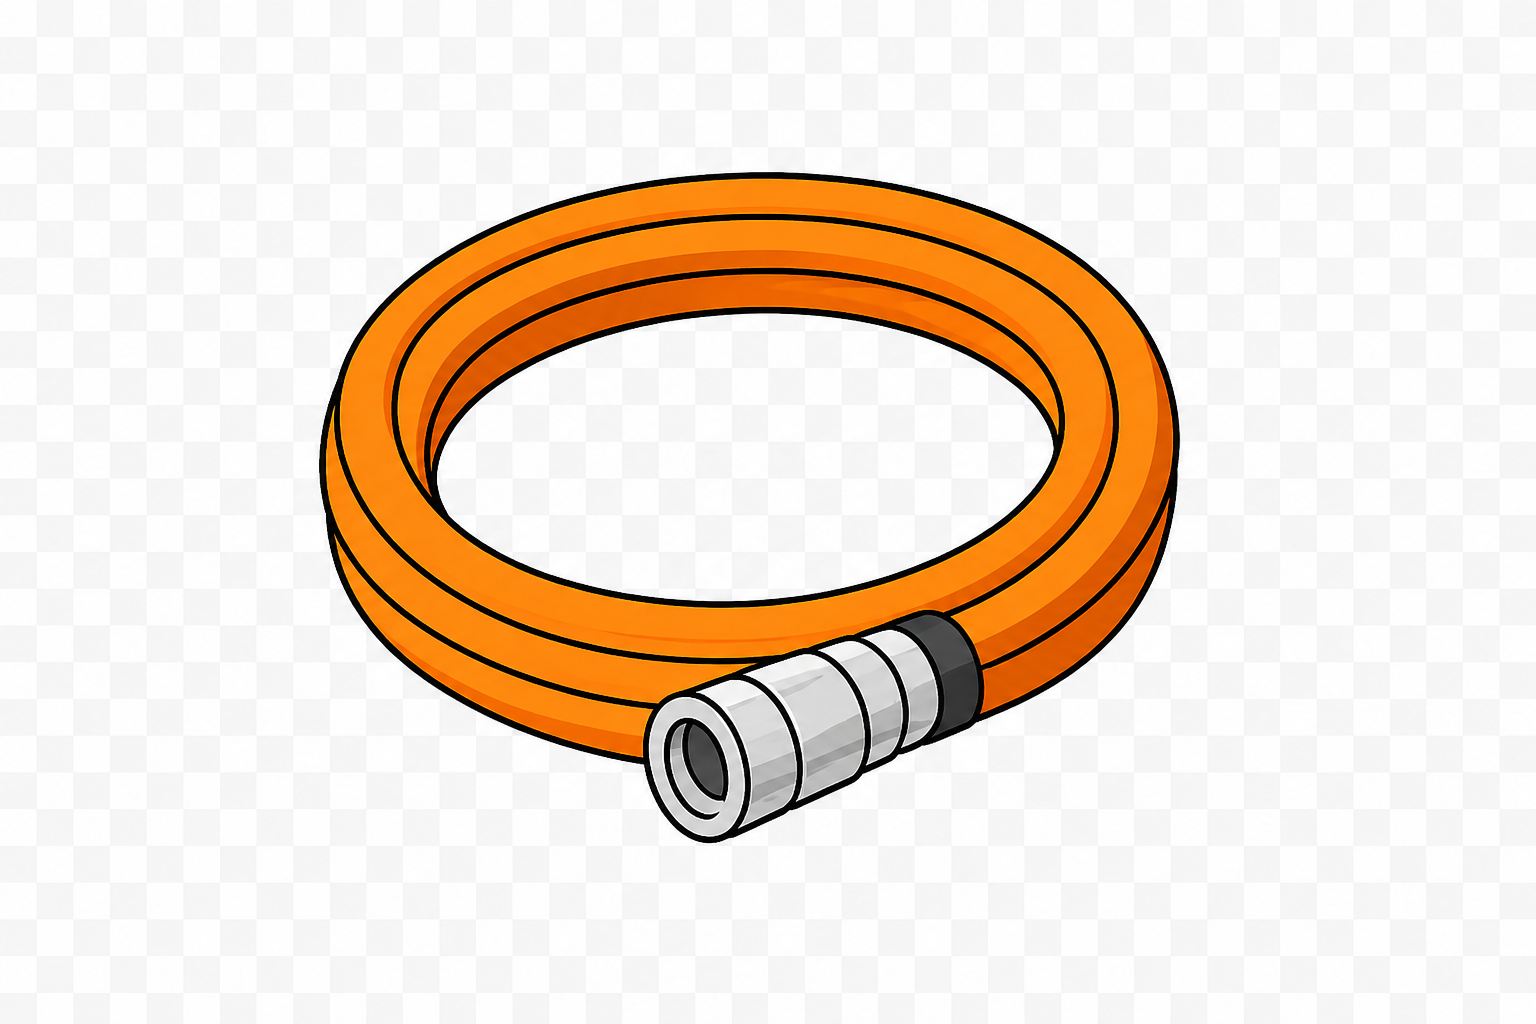
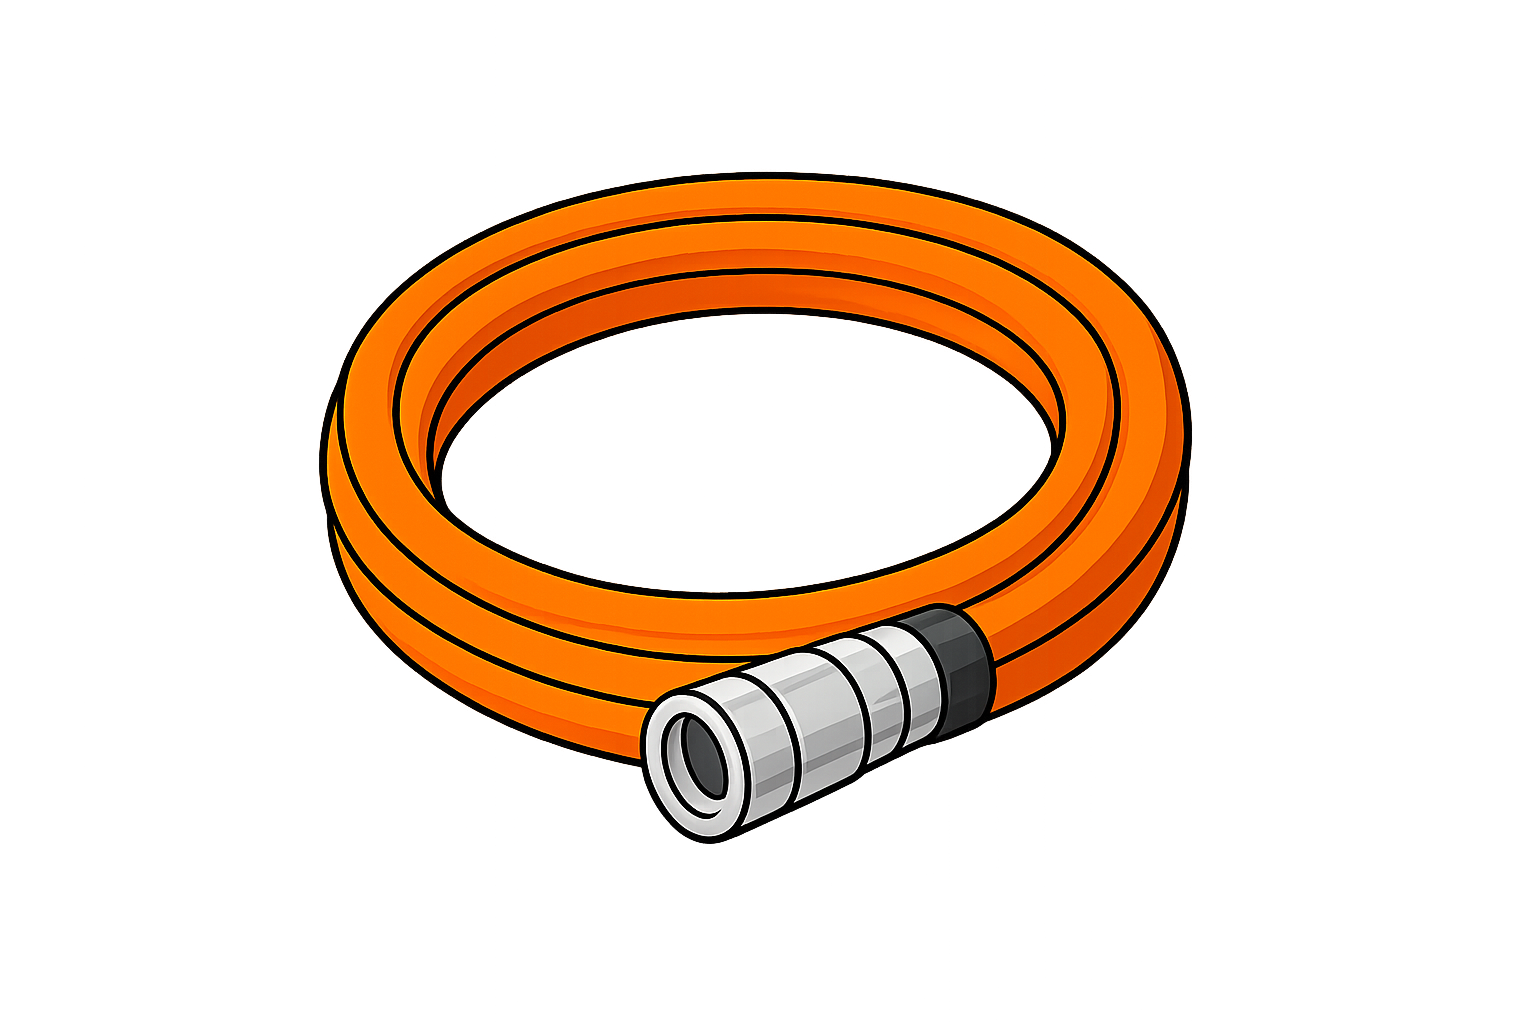
fix: img5を透過WebPに差し替え・svc-item背景色を白に統一

Changed region(s): [[0.1875, 0.1562, 0.7812, 0.8125], [0.5625, 0.25, 0.5938, 0.2812]]

diff --git a/public-v2/css/style.css b/public-v2/css/style.css
@@ -709,6 +709,7 @@ body.menu-open { overflow: hidden; }
   aspect-ratio: 4 / 3;
   position: relative;
   overflow: hidden;
+  background: var(--c-surface);
 }
 .service-card__img {
   width: 100%;
@@ -1010,6 +1011,7 @@ body.menu-open { overflow: hidden; }
   max-height: 360px;
   overflow: hidden;
   border-radius: 4px;
+  background: var(--c-surface);
 }
 .page-header__img {
   width: 100%;
@@ -1047,6 +1049,7 @@ body.menu-open { overflow: hidden; }
   aspect-ratio: 1 / 1;
   position: relative;
   overflow: hidden;
+  background: var(--c-white);
 }
 .svc-item__img {
   width: 100%;
